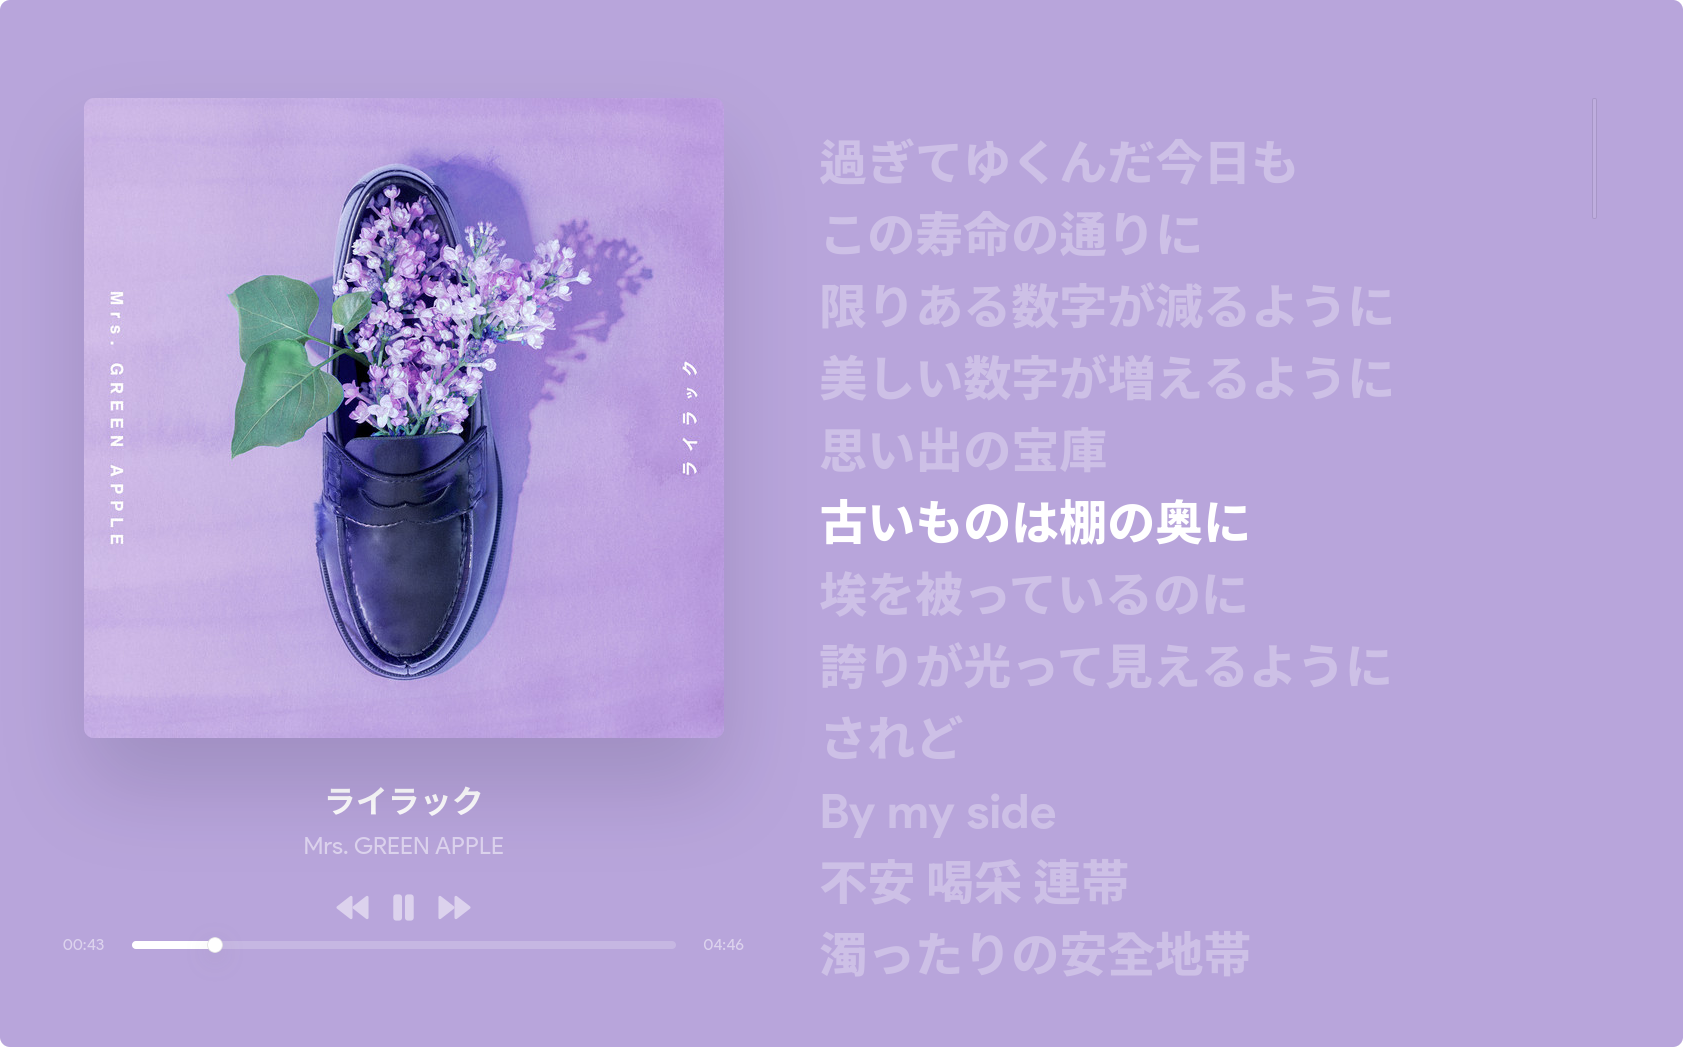
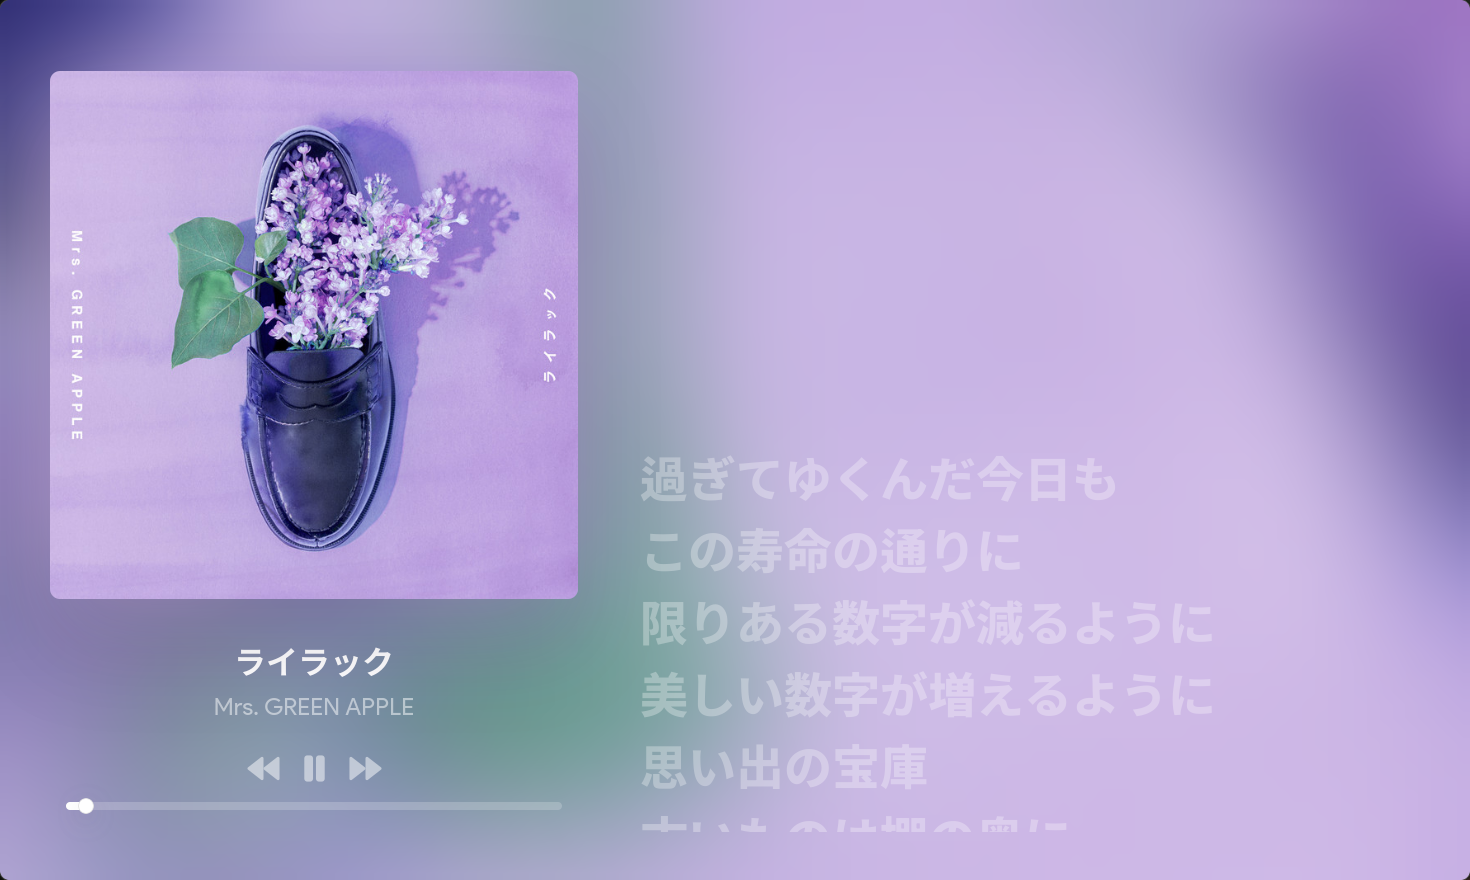
Adding blured bg

diff --git a/src/routes/Player.svelte b/src/routes/Player.svelte
@@ -15,6 +15,7 @@
 	import Volume2 from 'lucide-svelte/icons/volume-2';
 
 	import { getContext } from 'svelte';
+	import { browser } from '$app/environment';
 
 	let manager = getContext<Manager>('manager');
 	let lrcMngr = getContext<LrcManager>('lm');
@@ -164,6 +165,13 @@
 			}
 		}, 70);
 	}
+
+	let layers = [0, 0, 0];
+	function getRandomAngle() {
+		return Math.floor(Math.random() * 360);
+	}
+
+	let randdeg = $state(getRandomAngle());
 </script>
 
 <div
@@ -172,15 +180,26 @@
 	class="__player"
 	style="--clr: {manager.currentTrack?.color
 		? `rgb(${manager.currentTrack?.color.r}, ${manager.currentTrack?.color.g}, ${manager.currentTrack?.color.b})`
-		: 'var(--bg)'}; --text: {manager.currentTrack?.is_light ? '#181818' : '#ffffff'}; --r: {manager
-		.currentTrack?.color?.r}; --g: {manager.currentTrack?.color?.g}; --b: {manager.currentTrack
-		?.color?.b}; --percent: {percentage}%; --rd: {manager.currentTrack?.is_light
-		? '24'
-		: '255'}; --gd: {manager.currentTrack?.is_light ? '24' : '255'}; --bd: {manager.currentTrack
-		?.is_light
-		? '24'
-		: '255'};"
+		: 'var(--bg)'}; --text: {'#ffffff'}; --r: {manager.currentTrack?.color?.r}; --g: {manager
+		.currentTrack?.color?.g}; --b: {manager.currentTrack?.color
+		?.b}; --percent: {percentage}%; --rd: {'255'}; --gd: {'255'}; --bd: {'255'}; --random-degree: {randdeg}deg; --brightness: {manager
+		.currentTrack?.is_light
+		? '70%'
+		: '1'}"
 >
+	<div class="background-images">
+		{#if manager.currentTrack?.cover}
+			{#each layers as _, index}
+				<div
+					class:front={index === 0}
+					class:back={index === 1}
+					class:back_center={index === 2}
+					style="
+          background-image: url({convertFileSrc(manager.currentTrack?.cover as string)});"
+				></div>
+			{/each}
+		{/if}
+	</div>
 	{#if manager.currentTrack}
 		<section class="player">
 			{#if manager.currentTrack.cover}
@@ -401,10 +420,11 @@
 	}
 
 	.__player {
-		background: var(--clr);
+		background-size: cover;
+		/* background: var(--clr); */
 		color: var(--text);
-		width: 100%;
-		height: 100%;
+		width: 100vw;
+		height: 100vh;
 		position: fixed;
 		z-index: 100;
 		top: 0;
@@ -417,6 +437,71 @@
 		gap: 2em;
 		transform: translateY(200%);
 		transition: all 0.3s ease-in-out;
+	}
+
+	.__player .background-images {
+		position: absolute;
+		top: 0;
+		right: 0;
+		bottom: 0;
+		left: 0;
+		z-index: -2;
+		overflow: hidden;
+	}
+
+	div.front {
+		right: 0;
+		top: 0;
+		z-index: 2;
+	}
+
+	div.back_center {
+		animation-direction: reverse;
+		right: -50%;
+		top: -20%;
+		width: 300%;
+		height: 300%;
+		z-index: 0;
+	}
+
+	div.back {
+		animation-direction: reverse;
+		bottom: 0;
+		left: 0;
+		z-index: 1;
+	}
+
+	.__player .background-images > div {
+		animation: rot 35s linear infinite;
+		border-radius: 100em;
+		filter: blur(40px) brightness(var(--brightness));
+		position: absolute;
+		width: 200%;
+		height: 200%;
+		object-fit: cover;
+		background-size: cover;
+	}
+
+	@keyframes rot {
+		0% {
+			transform: rotate(var(--random-degree));
+		}
+		100% {
+			transform: rotate(calc(var(--random-degree) + 1turn));
+		}
+	}
+
+	.__player::before {
+		content: '';
+		position: absolute;
+		top: 0;
+		right: 0;
+		bottom: 0;
+		left: 0;
+		background-size: cover;
+		backdrop-filter: blur(64px);
+		-webkit-backdrop-filter: blur(64px);
+		z-index: -1;
 	}
 
 	.__player .player {
